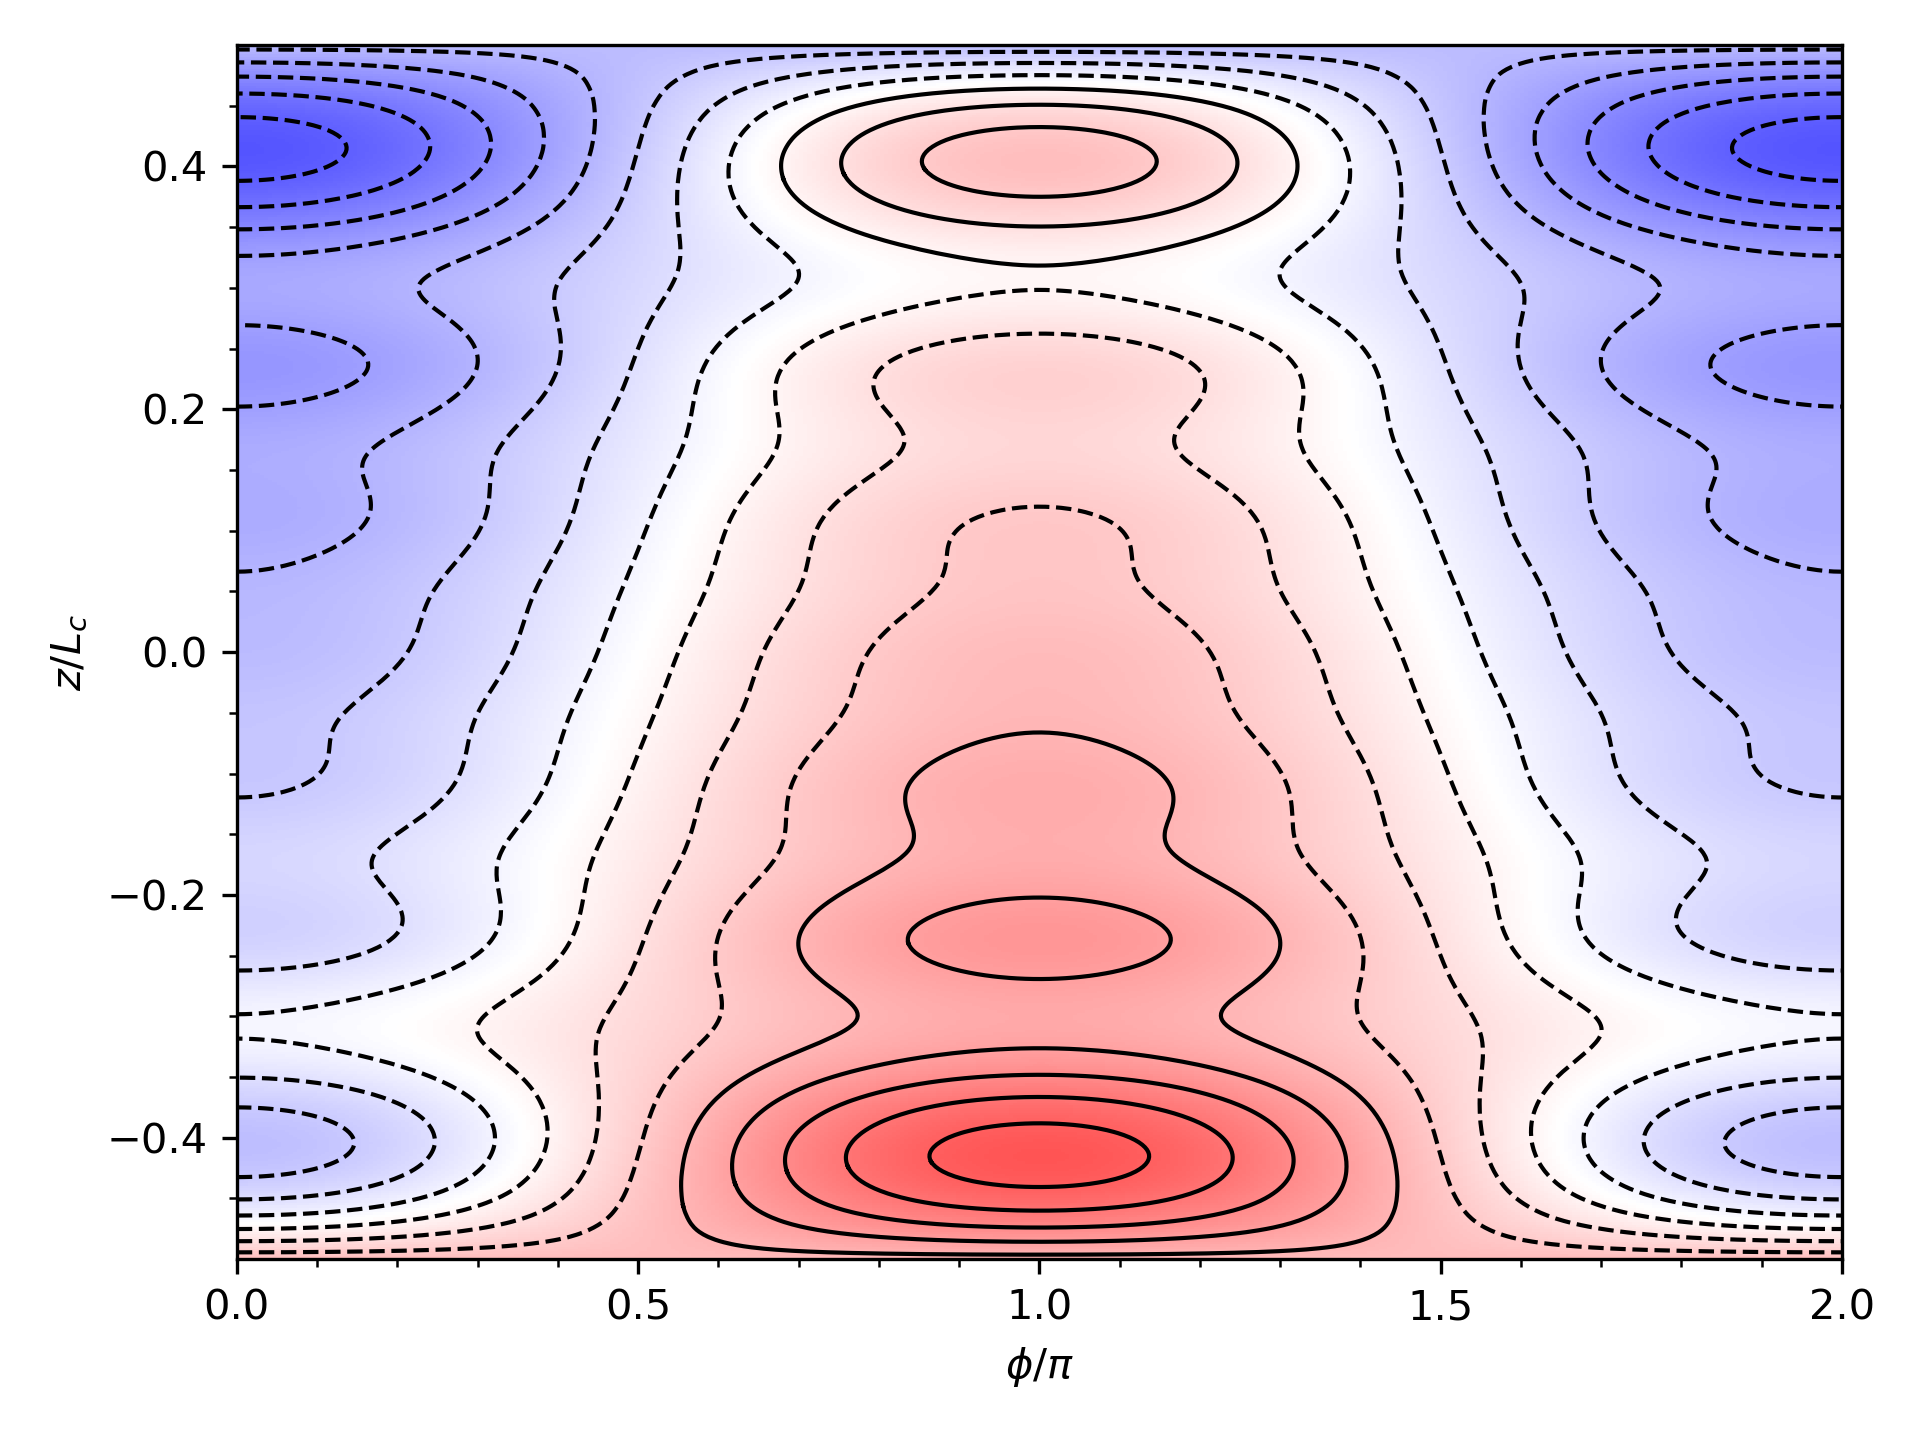
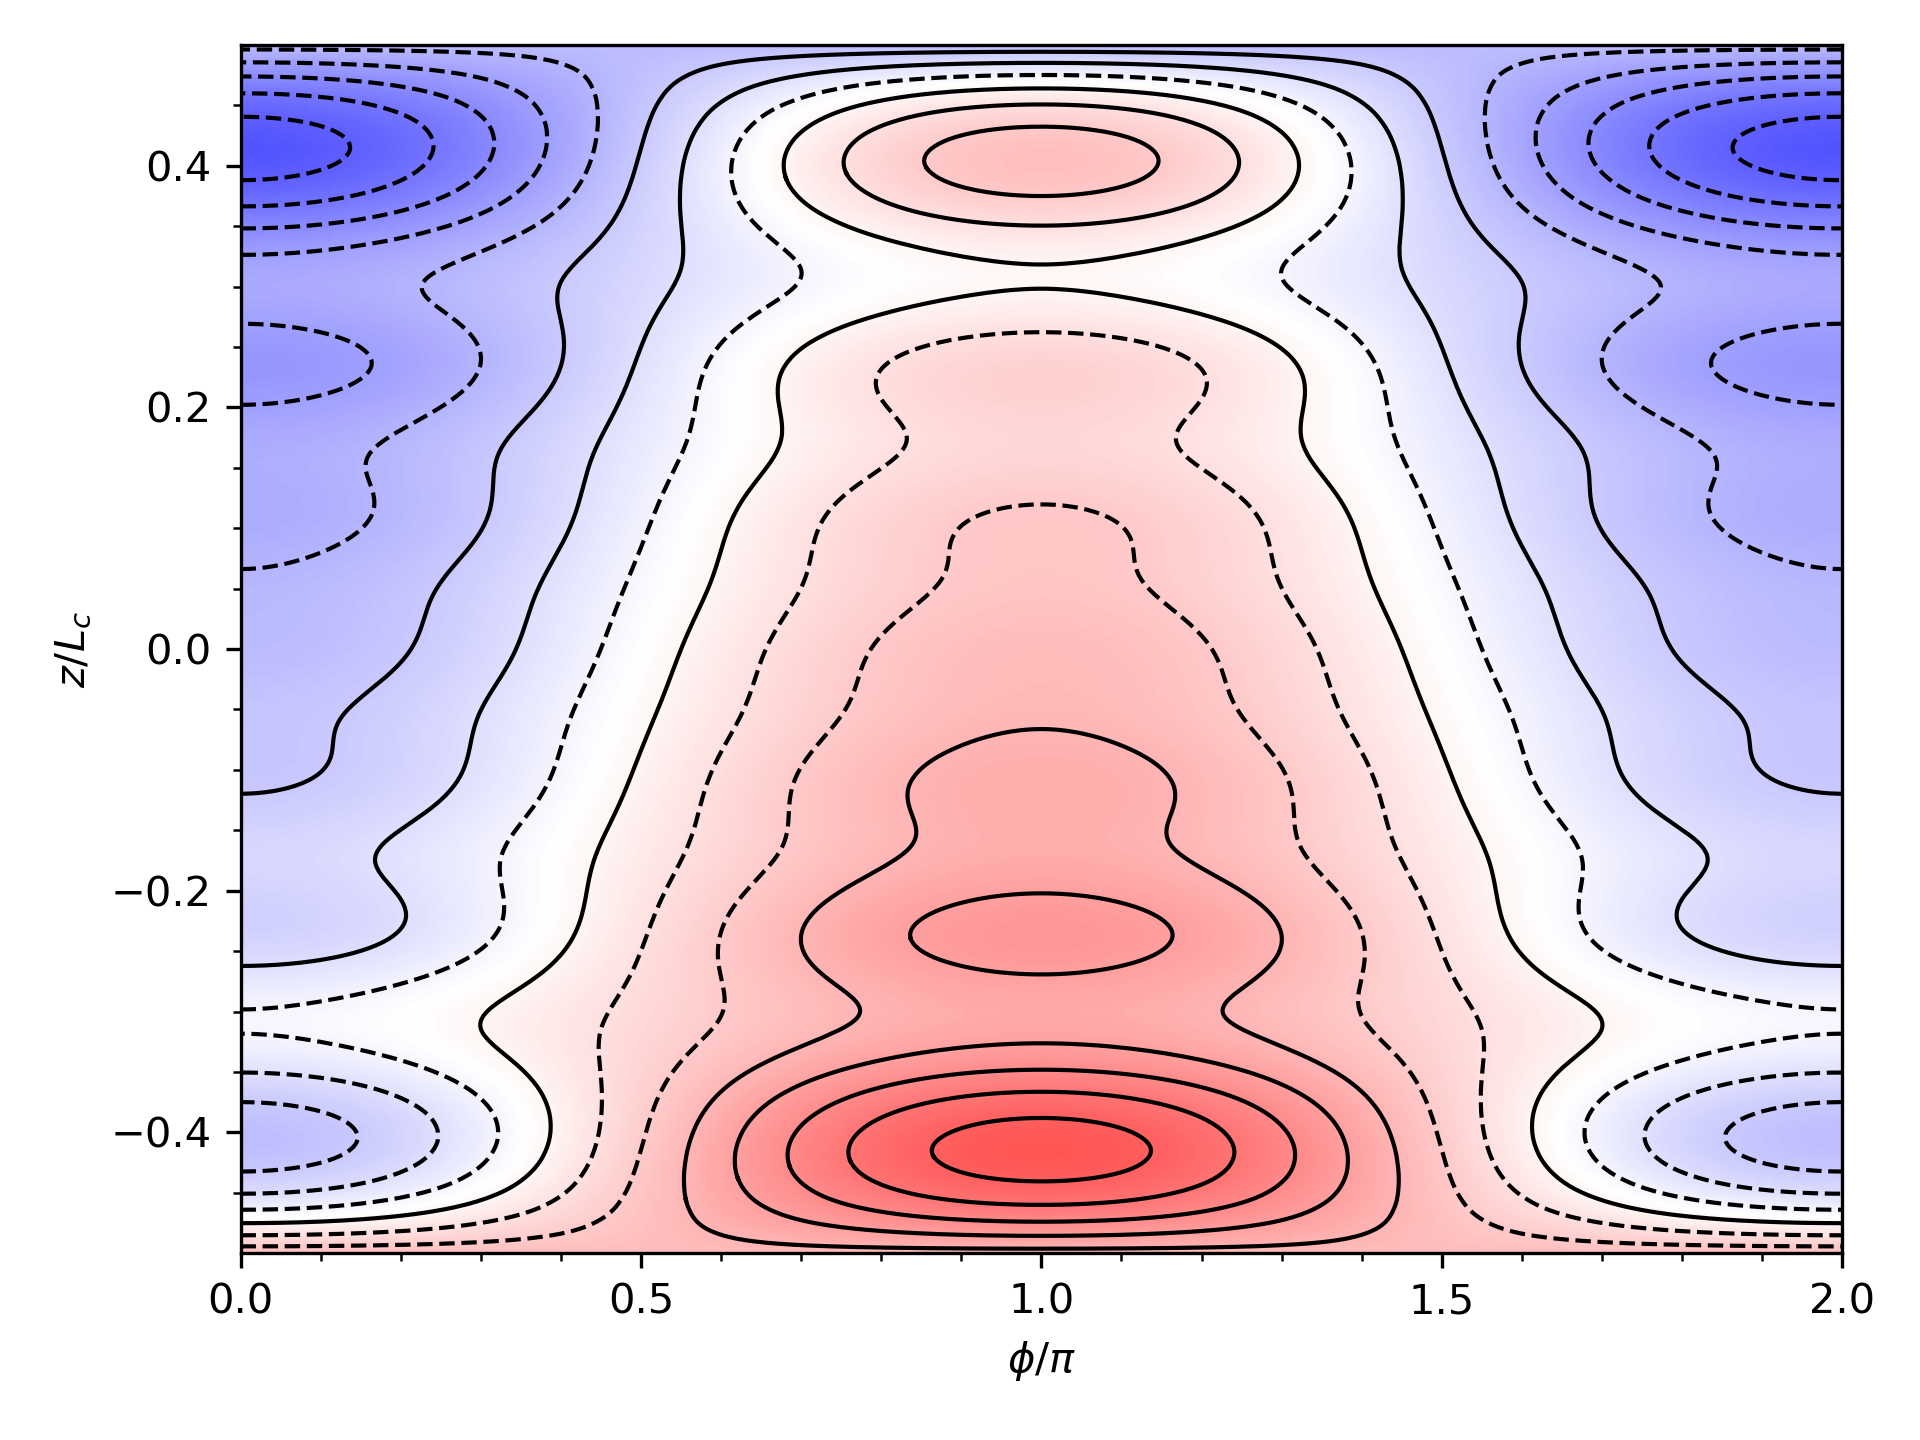
Update

diff --git a/generatewires.py b/generatewires.py
@@ -263,7 +263,7 @@ contours_mod_c1_cartesian, contours_mod_c1_cylindrical = targetpoints.poltocartc
                                                                                                      z_prime_c1s[0],
                                                                                                      z_prime_c2s[0]],
                                                                                        [n_phi_c, n_z_c])
-l_c1 = biotsavart.linestyle_cylindrical(contours_mod_c1_cylindrical)
+l_c1 = biotsavart.linestyle_cylindrical_modified(contours_mod_c1_cylindrical)
 
 fig2, ax2 = plt.subplots(1, 1)
 im = ax2.pcolormesh(coords_c1_cylindrical[:, 1].reshape(n_phi_c, n_z_c) / np.pi,
